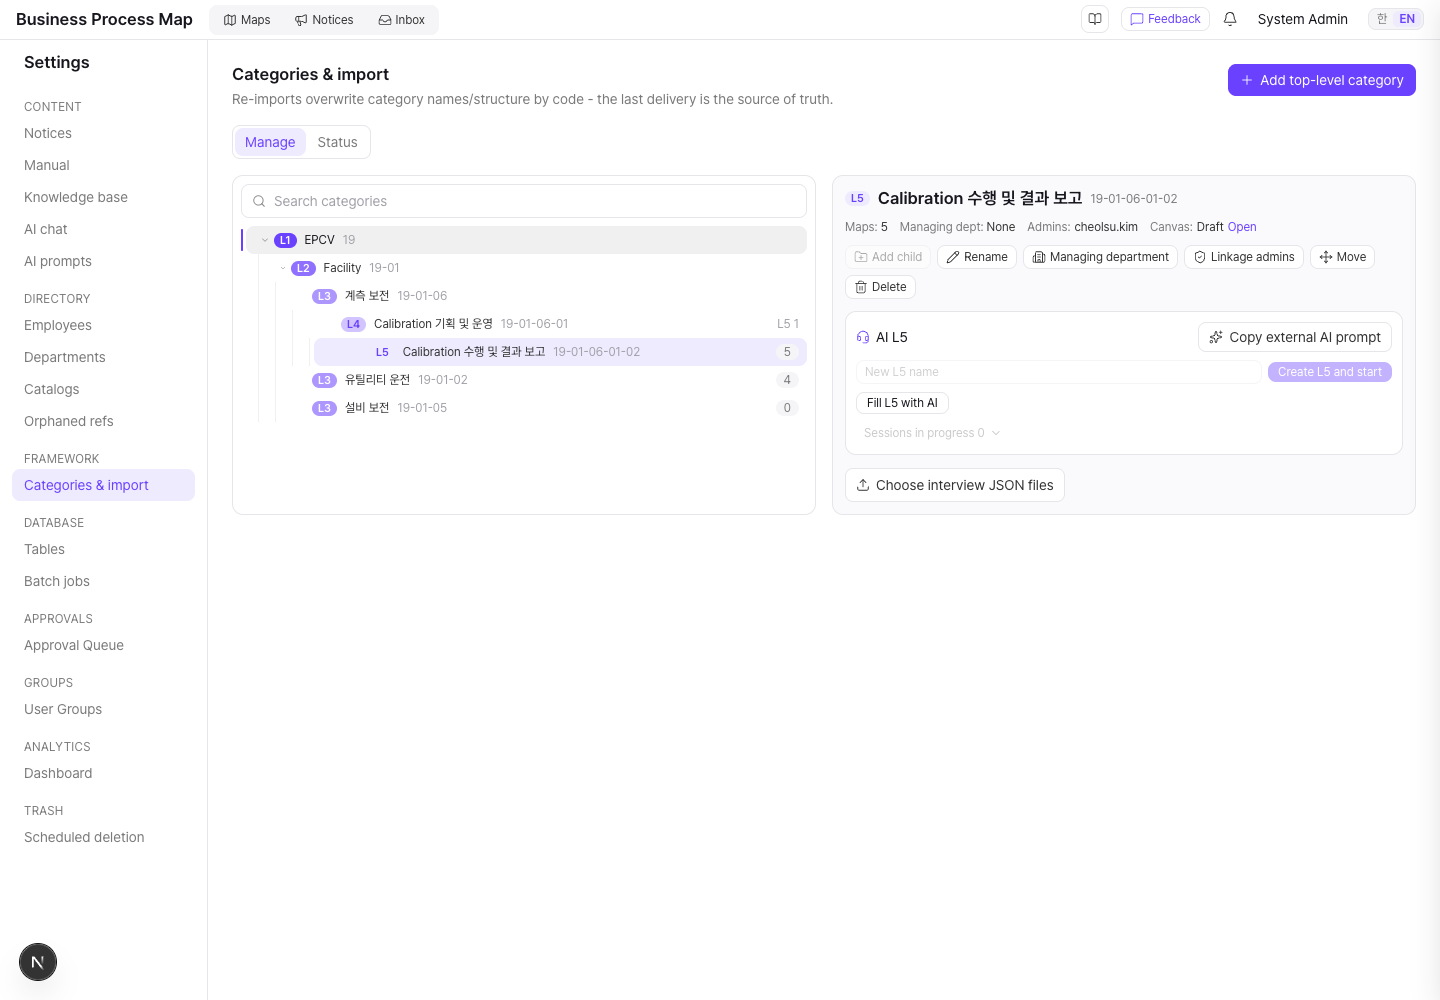
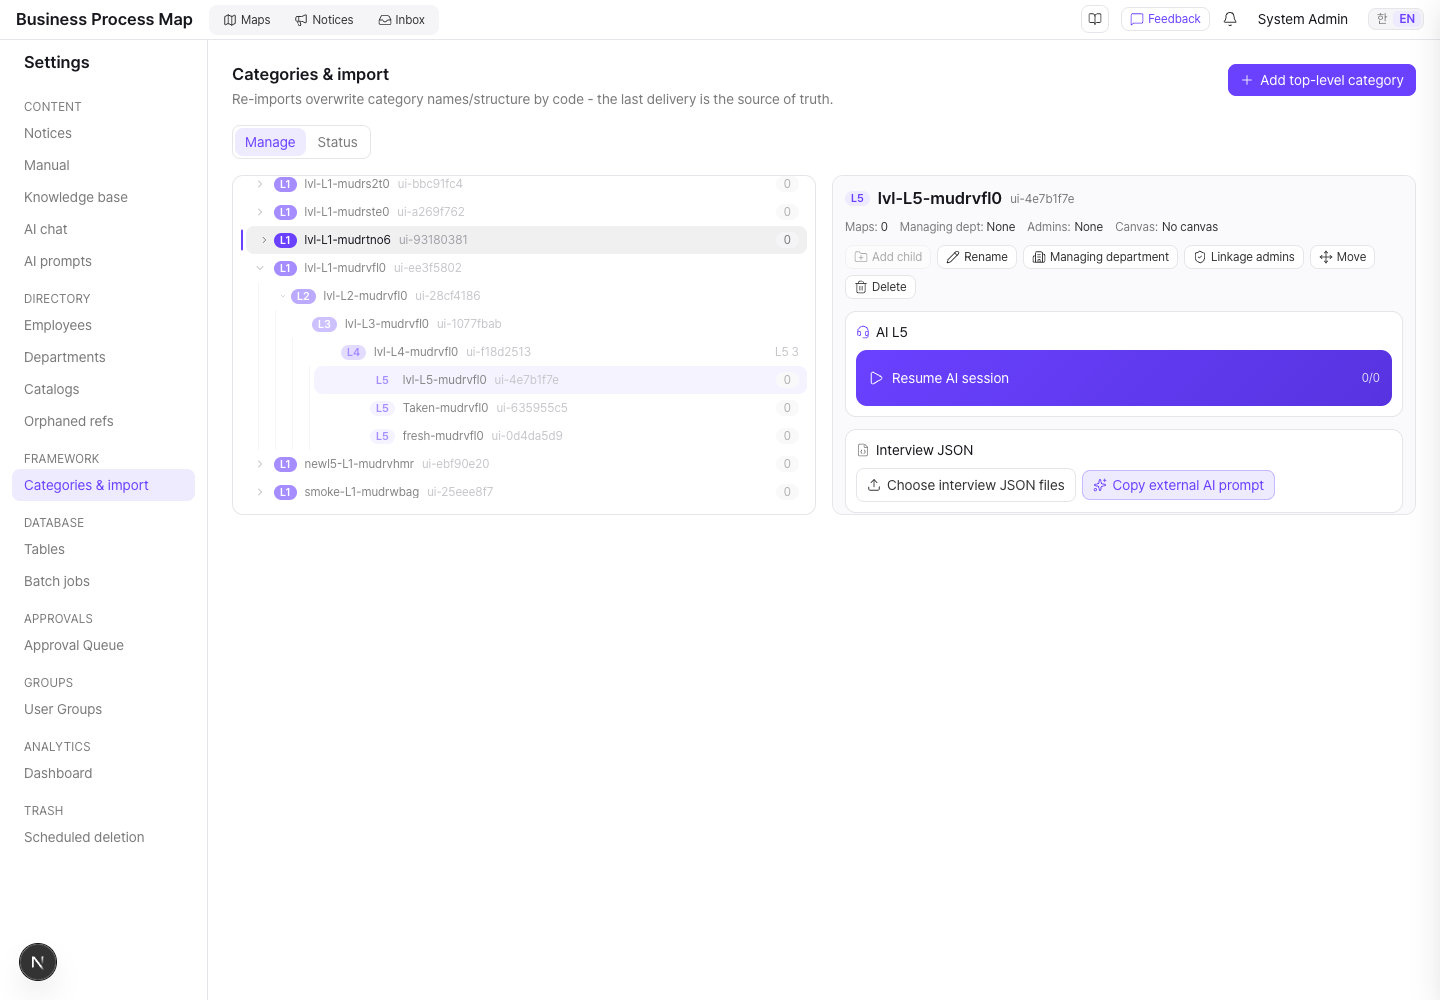
test(fw-admin): smoke for level tile actions and port four smokes off the old ids — 타일 액션 스모크·구 스모크 이식·부모 펼침/형제 프리로드 픽스
Claude-Session: https://claude.ai/code/session_01Cp6z7UQxkS4JyPnK2oo8Q2

diff --git a/frontend/src/components/admin/framework-panel.tsx b/frontend/src/components/admin/framework-panel.tsx
@@ -253,12 +253,13 @@ export function FrameworkPanel({ onToast, scopeRootIds }: FrameworkPanelProps) {
     }
   }
 
-  // 선택 노드가 L1~3이면 자식을 미리 받아 둔다 — 상세 패널의 하위 타일(FwLevelActions)이 트리 펼침과
-  // 무관하게 보여야 한다. 트리 펼침(handleToggle)과 같은 Map에 넣으므로 이중 로드는 없고,
-  // "로딩 중"은 별도 상태 없이 Map에 아직 없음으로 파생한다(effect 안 동기 setState 회피).
+  // 선택 노드가 L1~4면 자식을 미리 받아 둔다 — L1~3은 상세 패널의 하위 타일(FwLevelActions)이 트리 펼침과
+  // 무관하게 보여야 하고, L4는 새 L5 이름 모달의 형제 중복 검사가 자식 목록을 본다.
+  // 트리 펼침(handleToggle)과 같은 Map에 넣으므로 이중 로드는 없고, "로딩 중"은 별도 상태 없이
+  // Map에 아직 없음으로 파생한다(effect 안 동기 setState 회피).
   const selectedLevel = selectedNode?.level ?? null;
   useEffect(() => {
-    if (selectedId === null || selectedLevel === null || selectedLevel > 3) return undefined;
+    if (selectedId === null || selectedLevel === null || selectedLevel > 4) return undefined;
     if (childrenByParent.has(selectedId)) return undefined;
     let active = true;
     listCategoryNodes(selectedId)
@@ -951,10 +952,18 @@ export function FrameworkPanel({ onToast, scopeRootIds }: FrameworkPanelProps) {
               sessions={activeSessions}
               busy={consultBusy}
               onPick={(node) => {
-                // 좌측 트리와 싱크 — 선택 이동 + 그 노드 펼침 + 행으로 스크롤(검색 히트와 같은 동작)
+                // 좌측 트리와 싱크 — 선택 이동 + 부모(현재 선택)와 그 노드 펼침 + 행으로 스크롤(검색 히트와 같은 동작).
+                // 자식 행은 부모가 펼쳐져야 렌더되므로 부모를 먼저 연다.
+                const parentId = selectedNode?.id ?? null;
                 setSelectedId(node.id);
+                if (parentId !== null) openSection(parentId, false);
                 openSection(node.id, false);
-                setOpenIds((prev) => new Set(prev).add(node.id));
+                setOpenIds((prev) => {
+                  const next = new Set(prev);
+                  if (parentId !== null) next.add(parentId);
+                  next.add(node.id);
+                  return next;
+                });
                 window.setTimeout(() => document.querySelector(`[data-id="framework-admin-node-${node.id}"]`)?.scrollIntoView({ block: "center", behavior: "smooth" }), 50);
               }}
               onCreateL5={() => {

diff --git a/PROGRESS.md b/PROGRESS.md
@@ -10,6 +10,7 @@
 - **레벨 타일 순수 계산(dev, 09-23):** `lib/fw-level-actions.ts` — 서브트리 세션 수(`countSessionsUnder`, path_ids 포함 여부)·형제 이름 중복(`findDuplicateSibling`, trim 정확 일치)·L5의 진행 세션(`findSessionFor`). vitest 3건.
 - **레벨별 타일 액션(dev, 09-23):** 상세 패널 AI L5 블록(이름 인풋+생성·시작·세션 드롭다운이 상시 렌더, 레벨 안 맞으면 disabled)을 `components/admin/fw-level-actions.tsx`로 교체 — L1~3 선택 시 하위 노드를 2열 타일(LevelPill+이름+서브트리 진행 세션 배지, 2행 반 넘으면 페이드+"+N")로 보여 클릭하면 선택 이동·트리 펼침·스크롤(좌우 싱크), L4는 "L5 만들고 AI로 시작" 타일 → `PromptDialog`(형제 이름 중복이면 인라인 error·확인 비활성·Enter 차단, `onChange` prop 신설), L5는 진행 세션 유무로 "AI로 작업"/"AI 세션 이어서(진행률)". 세션 드롭다운 포털·`SESSIONS_*`·`isL4/isL5/resumeSession` 제거. 선택 L1~3의 자식은 effect가 트리와 같은 Map에 미리 받는다(로딩은 Map 부재로 파생). AI 타일은 `AI_TILE` 그라데이션 상수(스프린트 ③ AiButton으로 교체 예정).
 - **인터뷰 JSON 섹션 분리(dev, 09-23):** 상세 패널 하단 [인터뷰 임포트] 버튼을 독립 카드 `interview-import-section`(제목 줄 + [파일 선택(outline)] [외부 AI 프롬프트 복사(accent tint)] 한 행)으로. `InterviewJsonPromptButton`에 `tone`·`onCopied` prop을 더해 복사 성공 시 라벨 전환과 함께 토스트를 띄운다(캠페인 헤더는 outline 그대로).
+- **스모크(dev, 09-23):** 신규 `pw-fw-level-actions.mjs` 10/10(빈 안내·L1→L2 타일·서브트리 배지 1·타일 클릭=트리 싱크·L4 모달 중복 차단+확인 비활성·정상 이름=세션 오픈·L5 이어서 타일·임포트 섹션·복사 토스트). 구 id(`fw-consult-create/start/new-name/sessions-toggle`)를 쓰던 4종 이식 — `pw-fw-consult-new-l5.mjs` 6/6·`pw-fw-admin-layout-shot.mjs` 8/8(시드 L5는 세션이 붙어 있을 수 있어 start/resume 타일 중 하나)·`pw-fw-consult.mjs`·`pw-fw-consult-existing.mjs`는 진입 단계까지 PASS(이후 계획 제안은 저장소 밖 가짜 AI :9999 전제라 이번 실행에선 미검증). 함정: Playwright `isVisible({timeout})`은 기다리지 않는다 → 토스트 같은 다음 틱 마운트는 `waitFor`. 헤드리스 클립보드는 `grantPermissions` 필요. 자식 타일 클릭 시 부모도 펼쳐야 트리 행이 렌더된다.
 
 ## 2026-09-23 — AI L5 캠페인 2라운드 스프린트 ① 비교·L5 캔버스
 
